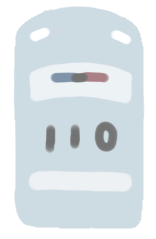
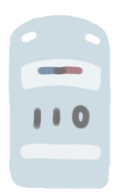
Update car image and size

diff --git a/public/view/car.js b/public/view/car.js
@@ -1,6 +1,6 @@
 function preloadCarImages() {
 	const carImages = [];
-	for (let i = 1; i <= 6; i++) {
+	for (let i = 1; i <= 5; i++) {
 		carImages.push(loadImage(`../images/objects/car/Car_${i}.png`));
 	}
 	return carImages;
@@ -16,10 +16,10 @@ class Car {
 		this.carSpeed = -0.5;
         this.collided = false;
 		this.acc = 0.125;
-		this.colliderOffset = -25;
+		this.colliderOffset = -20;
 		
 		if(carType === null) {
-			this.carType = Math.floor(Math.random() * 6) + 1;
+			this.carType = Math.floor(Math.random() * 5) + 1;
 		}
 	}
 	
